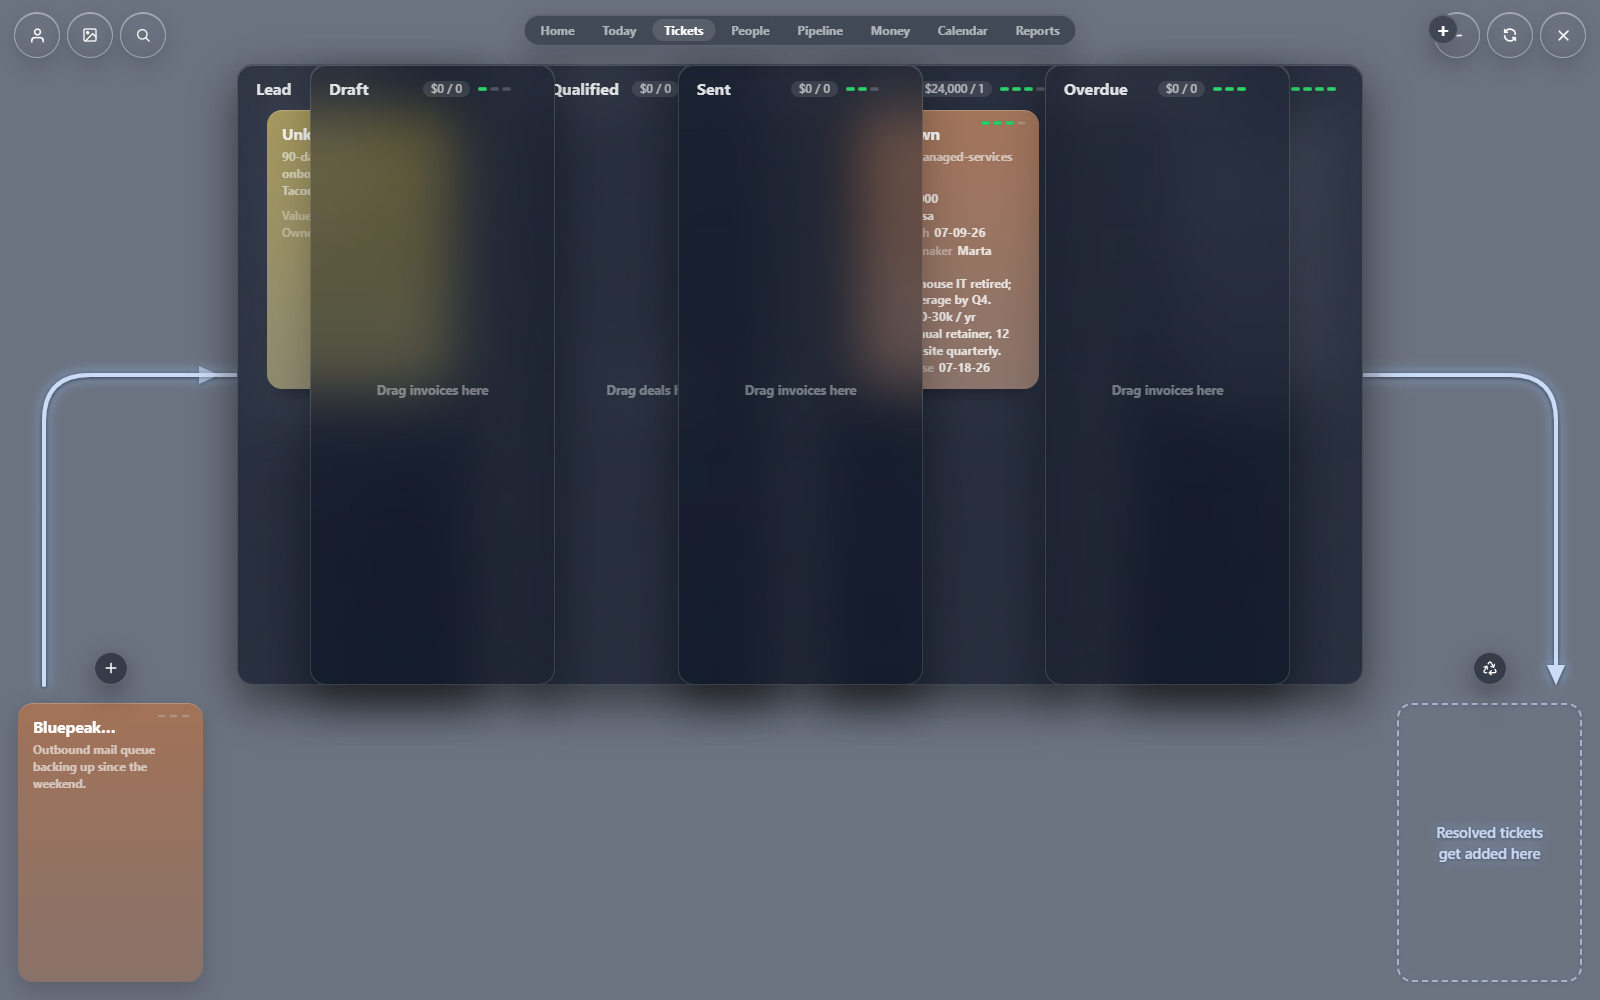
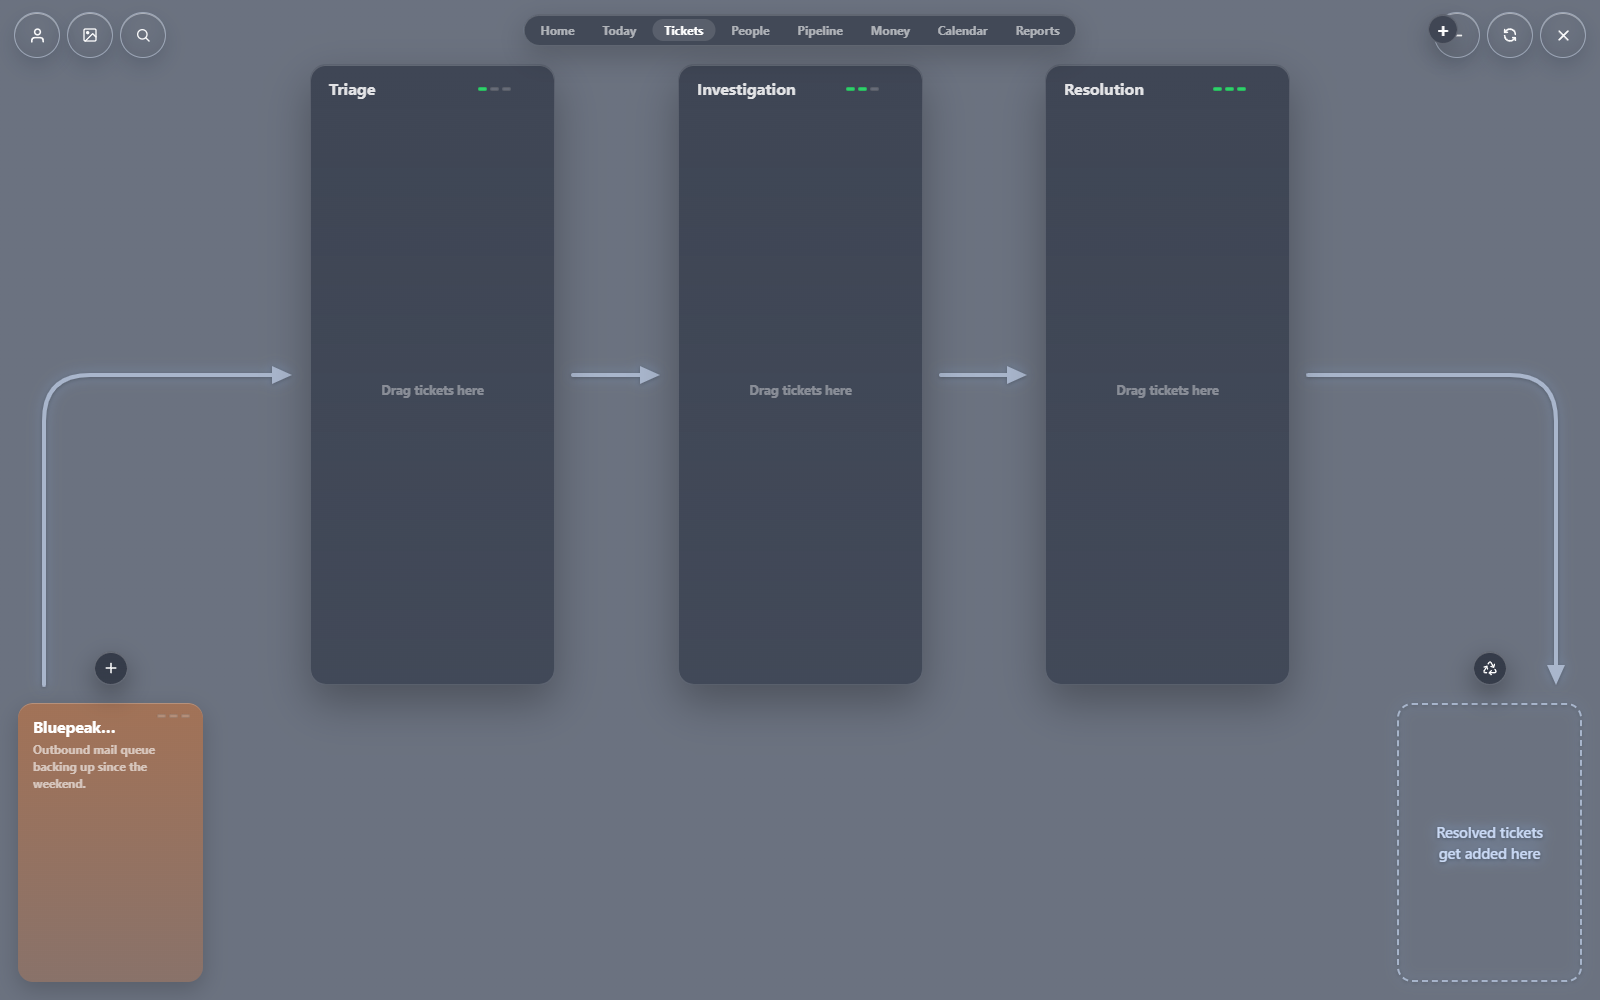
R1: theater isolation — one owned root per module, one visible theater per surface
Every card-system instance now mounts ALL of its chrome (stacks, scrim, zones,
flow arrows, menus, drag flyers) inside a single <section data-crm-theater>
root. The old per-element hidden toggles silently failed on .tk-zones — its
author-level display:contents overrode the UA [hidden] rule — which is exactly
how the ticket buckets bled through every other surface.

Fractal-camera surfaces (home, calendar, company dive) carry the same
data-crm-theater attribute. crmWorkspaces.setActive now closes the summoned
overlays (search deck, company dive), enforces the one-theater invariant over
every [data-crm-theater] root, and broadcasts crm:theater-switch, which the
portaled card-detail panels listen to and close on.

Acceptance: forward AND reverse workspace cycles shot through the harness —
each surface shows only its own theater (shots/ + shots/r*).

diff --git a/dashboard/app/static/card-system.js b/dashboard/app/static/card-system.js
@@ -72,6 +72,7 @@ global.createCrmCardSystem = function createCrmCardSystem(config = {}) {
     ...(config.storageKeys || {}),
   };
   const instanceGlobal = apiName ? String(apiName) : "";
+  const theaterKey = String(config.theater || apiName);
   let active = config.active !== false;
   let started = false;
   let publicApi = null;
@@ -215,7 +216,7 @@ global.createCrmCardSystem = function createCrmCardSystem(config = {}) {
                               // create fields (client/date/description) are saved; cancelling discards it
   let pendingRender = false;  // a render arrived while the detail config was open → run it once it closes
 
-  let root = null, stackScrim = null;
+  let root = null, stackScrim = null, theater = null;
   const decks = { left: null, right: null, trash: null };   // each: { box, arrow, bar, thumb, cards:[], scrollX, contentW, viewW }
   const fanned = { left: false, right: false, trash: false };
   const CONTROL_SIDES = ["left", ...(rightDeckEnabled || trashEnabled ? ["right"] : [])];
@@ -224,8 +225,24 @@ global.createCrmCardSystem = function createCrmCardSystem(config = {}) {
   let tickets = [], subscribed = false;
   let linkHighlightEl = null;
 
+  // ONE owned root per instance. Everything this factory creates — stacks,
+  // scrim, zones, flow arrows, menus, drag flyers — lives inside it, so hiding
+  // the theater hides the whole module in one move. (The old per-element
+  // `hidden` toggles silently failed on .tk-zones: its author-level
+  // `display: contents` overrode the UA [hidden] rule, which is exactly how
+  // the Triage/Investigation/Resolution buckets bled through every surface.)
+  const ensureTheater = () => {
+    if (theater) return theater;
+    ensureStyles();
+    theater = document.createElement("section");
+    theater.className = "crm-theater";
+    theater.dataset.crmTheater = theaterKey;
+    theater.hidden = !active;
+    document.body.appendChild(theater);
+    return theater;
+  };
   const applyActiveVisibility = () => {
-    [root, zonesRoot, stackScrim].forEach((el) => { if (el) el.hidden = !active; });
+    if (theater) theater.hidden = !active;
   };
 
   const esc = (s) => String(s ?? "").replace(/[&<>"]/g, (c) => ({ "&": "&amp;", "<": "&lt;", ">": "&gt;", '"': "&quot;" }[c]));
@@ -466,6 +483,12 @@ global.createCrmCardSystem = function createCrmCardSystem(config = {}) {
     style.textContent = `
       /* Text in the ticket UI is never selectable — dragging/clicking must not highlight or capture text.
          (The only place selection is allowed is the config menu's editable fields — see ticket-detail.js.) */
+      /* The theater: one owned root per card-system instance. display:contents so it adds NO box
+         or stacking context (its fixed-position children keep behaving exactly as before) — and the
+         [hidden] rule is author-level + !important so it actually wins over display:contents (the UA
+         [hidden] rule does not, which is how zones used to bleed through hidden). */
+      .crm-theater { display: contents; }
+      .crm-theater[hidden] { display: none !important; }
       .tk-stacks, .tk-zones { -webkit-user-select: none; user-select: none; }
       .tk-stacks { position: fixed; inset: auto 0 0 0; z-index: 4000; pointer-events: none; -webkit-app-region: no-drag; }
       /* Depth-of-field: a full-screen blur layer BETWEEN the focused stack (z 3) and everything else
@@ -821,7 +844,7 @@ global.createCrmCardSystem = function createCrmCardSystem(config = {}) {
         : trashEnabled
           ? `<button class="tk-menu-item" data-act="trash">move to trash</button>`
           : "");
-    document.body.appendChild(m);
+    ensureTheater().appendChild(m);
     m.style.left = `${Math.round(Math.min(x, window.innerWidth - m.offsetWidth - 8))}px`;
     m.style.top = `${Math.round(Math.min(y, window.innerHeight - m.offsetHeight - 8))}px`;
     ticketMenu = m;
@@ -857,7 +880,7 @@ global.createCrmCardSystem = function createCrmCardSystem(config = {}) {
       `<div class="tk-swatches">${TICKET_COLORS.map((c) =>
         `<button class="tk-swatch${c === cur ? " is-active" : ""}" data-color="${c}" style="background:${c}" aria-label="${c}"></button>`).join("")}</div>` +
       `<button class="tk-menu-item tk-menu-check" data-act="match"><span class="tk-tick">${cur ? "" : "&#10003;"}</span><span>match severity</span></button>`;
-    document.body.appendChild(m);
+    ensureTheater().appendChild(m);
     m.style.left = `${Math.round(Math.min(x, window.innerWidth - m.offsetWidth - 8))}px`;
     m.style.top = `${Math.round(Math.min(y, window.innerHeight - m.offsetHeight - 8))}px`;
     ticketMenu = m;   // reuse the main menu's dismiss wiring (outside press / Escape / wheel)
@@ -887,7 +910,7 @@ global.createCrmCardSystem = function createCrmCardSystem(config = {}) {
       (entries.length
         ? entries.map((e) => `<div class="tk-act-row"><span class="tk-act-when">${esc(when(e.at))}</span><span class="tk-act-text">${esc(e.text)}${e.by ? ` <span class="tk-act-by">— ${esc(e.by)}</span>` : ""}</span></div>`).join("")
         : `<div class="tk-act-row tk-act-none">No activity yet</div>`);
-    document.body.appendChild(m);
+    ensureTheater().appendChild(m);
     m.style.left = `${Math.round(Math.min(x, window.innerWidth - m.offsetWidth - 8))}px`;
     m.style.top = `${Math.round(Math.min(y, window.innerHeight - m.offsetHeight - 8))}px`;
     ticketMenu = m;   // same dismiss wiring: outside press / Escape (wheel INSIDE it scrolls the list)
@@ -921,7 +944,7 @@ global.createCrmCardSystem = function createCrmCardSystem(config = {}) {
     clone.style.backgroundImage = cardBg(t);
     applyStaleness(clone, t);
     clone.innerHTML = cardInner(t);
-    document.body.appendChild(clone);
+    ensureTheater().appendChild(clone);
     fitCardFields(clone);
     requestAnimationFrame(() => { clone.style.transform = "scale(0.12)"; clone.style.opacity = "0"; });
     setTimeout(() => { clone.remove(); doPurge(); }, 320);
@@ -940,7 +963,7 @@ global.createCrmCardSystem = function createCrmCardSystem(config = {}) {
     clone.style.backgroundImage = cardBg(t);
     applyStaleness(clone, t);
     clone.innerHTML = cardInner(t);
-    document.body.appendChild(clone);
+    ensureTheater().appendChild(clone);
     fitCardFields(clone);
     requestAnimationFrame(() => { clone.style.transform = `translate(${Math.round(to.left - fromRect.left)}px, ${Math.round(to.top - fromRect.top)}px) scale(${(to.width / fromRect.width).toFixed(4)}, ${(to.height / fromRect.height).toFixed(4)})`; });
     setTimeout(() => { clone.remove(); if (destEl.isConnected) destEl.style.opacity = ""; if (onLanded) onLanded(); }, 470);
@@ -1049,11 +1072,12 @@ global.createCrmCardSystem = function createCrmCardSystem(config = {}) {
   const ensureRoot = () => {
     if (root) return;
     ensureStyles();
+    ensureTheater();
     root = document.createElement("div");
     root.className = "tk-stacks";
-    // Depth-of-field scrim — a BODY-level layer (z 3900), NOT a child of .tk-stacks, so it sits below
+    // Depth-of-field scrim — a theater-level layer (z 3900), NOT a child of .tk-stacks, so it sits below
     // the stacks (which stay sharp) yet above the resting buckets/dashboard (which it blurs).
-    stackScrim = document.createElement("div"); stackScrim.className = "tk-scrim"; document.body.appendChild(stackScrim);
+    stackScrim = document.createElement("div"); stackScrim.className = "tk-scrim"; theater.appendChild(stackScrim);
     for (const side of CONTROL_SIDES) {
       const box = document.createElement("div");
       box.className = `tk-deck tk-deck-${side}`;
@@ -1117,7 +1141,7 @@ global.createCrmCardSystem = function createCrmCardSystem(config = {}) {
       root.appendChild(box); root.appendChild(empty);
       decks.trash = { box, track, arrow, bar, thumb, action: null, emptyPh: empty, cards: [], scrollX: 0, contentW: 0, viewW: 0, order: loadOrder("trash") };
     }
-    document.body.appendChild(root);
+    theater.appendChild(root);
     window.addEventListener("resize", () => { matchCardSize(); sizeRoot(); syncDropFloor(); DECK_SIDES.forEach(layout); });
     // Watch native widget drags from the outside so a grid ticket can be dropped back
     // into its stack. Capture phase → these run before the native drag's own document
@@ -1643,7 +1667,7 @@ global.createCrmCardSystem = function createCrmCardSystem(config = {}) {
     const clone = card.cloneNode(true);
     clone.className = "tk-card tk-flying";
     clone.style.cssText = `position:fixed; left:${cr.left}px; top:${cr.top}px; width:${cr.width}px; height:${cr.height}px; margin:0; z-index:9999;`;
-    document.body.appendChild(clone);
+    ensureTheater().appendChild(clone);
     const placed = addTicketToGrid(t, cell);
     render();   // the ticket now has a grid widget → it leaves its stack
     requestAnimationFrame(() => {
@@ -1765,7 +1789,7 @@ global.createCrmCardSystem = function createCrmCardSystem(config = {}) {
     clone.style.backgroundImage = cardBg(t);
     applyStaleness(clone, t);
     clone.innerHTML = cardInner(t);
-    document.body.appendChild(clone);
+    ensureTheater().appendChild(clone);
     fitCardFields(clone);
     if (!target) { requestAnimationFrame(() => { clone.style.opacity = "0"; }); setTimeout(() => clone.remove(), 420); return; }
     // Measure the card's resting slot with its transition suppressed, then hide it
@@ -2344,7 +2368,7 @@ global.createCrmCardSystem = function createCrmCardSystem(config = {}) {
       const wrap = document.createElement("div");
       wrap.innerHTML = `<svg class="tk-flow" xmlns="http://www.w3.org/2000/svg"><path class="tk-flow-shaft"></path><path class="tk-flow-head"></path></svg>`;
       const svg = wrap.firstElementChild;
-      document.body.appendChild(svg);
+      ensureTheater().appendChild(svg);
       flowSvgs.push(svg);
       flowShafts.push(svg.querySelector(".tk-flow-shaft"));
       flowHeads.push(svg.querySelector(".tk-flow-head"));
@@ -2483,7 +2507,7 @@ global.createCrmCardSystem = function createCrmCardSystem(config = {}) {
       if (window.ResizeObserver) new ResizeObserver(() => clampZoneScroll(s.key)).observe(zoneBody[s.key]);
       wireZoneThumb(s.key);
     });
-    document.body.appendChild(zonesRoot);
+    ensureTheater().appendChild(zonesRoot);
     layoutZones();
     requestAnimationFrame(layoutZones);              // re-measure once the grid has laid out
     window.addEventListener("resize", layoutZones);
@@ -2706,7 +2730,7 @@ global.createCrmCardSystem = function createCrmCardSystem(config = {}) {
         clone.style.backgroundImage = cardBg(t);
         applyStaleness(clone, t);
         clone.innerHTML = zoneCardInner(t);
-        document.body.appendChild(clone);
+        ensureTheater().appendChild(clone);
         fitCardFields(clone);
         card.classList.add("tk-zdrag");
         dragPreviewFn = preview;                 // re-run while autoscrolling so the gap follows the cursor
@@ -2916,7 +2940,7 @@ global.createCrmCardSystem = function createCrmCardSystem(config = {}) {
     clone.style.backgroundImage = cardBg(t);
     applyStaleness(clone, t);
     clone.innerHTML = zoneCardInner(t);
-    document.body.appendChild(clone);
+    ensureTheater().appendChild(clone);
     fitCardFields(clone);
     dest.style.opacity = "0";
     requestAnimationFrame(() => {
@@ -3074,7 +3098,7 @@ global.createCrmCardSystem = function createCrmCardSystem(config = {}) {
       clone.style.backgroundImage = cardBg(t);
       applyStaleness(clone, t);
       clone.innerHTML = cardInner(t);
-      document.body.appendChild(clone);
+      ensureTheater().appendChild(clone);
       fitCardFields(clone);
       requestAnimationFrame(() => {
         clone.style.transform = `translate(${Math.round(to.left - from.left)}px, ${Math.round(to.top - from.top)}px) scale(${(to.width / from.width).toFixed(4)}, ${(to.height / from.height).toFixed(4)})`;

diff --git a/dashboard/app/static/crm-workspaces.js b/dashboard/app/static/crm-workspaces.js
@@ -34,13 +34,41 @@
     document.head.appendChild(style);
   };
 
+  // Which theaters may be visible on each surface. The Today hand rides along on
+  // the Calendar surface (cards are dragged onto days); everything else is
+  // strictly one theater per surface. Summoned overlays (search deck, company
+  // dive) are never allowed to survive a switch — they must re-open on demand.
+  const ALLOWED_THEATERS = {
+    home: ["home"],
+    today: ["today"],
+    tickets: ["tickets"],
+    people: ["people"],
+    pipeline: ["pipeline"],
+    money: ["money"],
+    calendar: ["calendar", "today"],
+    reports: ["reports"],
+  };
+
   const setActive = (key) => {
     active = MODULES.some((m) => m.key === key) ? key : "home";
     localStorage.setItem(STORE_KEY, active);
+    // Close the summoned overlays FIRST — they own portaled panels that must
+    // cancel before the destination theater takes the stage.
+    try { window.crmSearchDeck?.close?.(); } catch {}
+    try { window.crmCompanyDive?.setActive?.(false); } catch {}
     MODULES.forEach((module) => {
       const on = module.key === active || (module.key === "today" && active === "calendar");
       try { module.api()?.setActive?.(on); } catch {}
     });
+    // Enforce the one-theater invariant: whatever the modules' own setActive
+    // logic did (or forgot), exactly the allowed theater roots are visible.
+    const allowed = new Set(ALLOWED_THEATERS[active] || [active]);
+    document.querySelectorAll("[data-crm-theater]").forEach((el) => {
+      el.hidden = !allowed.has(el.dataset.crmTheater);
+    });
+    // Portaled chrome (card-detail panels, drag flyers) listens for this and
+    // closes/cancels — a theater switch never carries another module's UI along.
+    document.dispatchEvent(new CustomEvent("crm:theater-switch", { detail: { key: active } }));
     root?.querySelectorAll("button[data-crm-module]").forEach((button) => {
       button.classList.toggle("is-active", button.dataset.crmModule === active);
       button.setAttribute("aria-pressed", button.dataset.crmModule === active ? "true" : "false");

diff --git a/dashboard/app/static/card-detail.js b/dashboard/app/static/card-detail.js
@@ -767,6 +767,9 @@ global.createCrmCardDetail = function createCrmCardDetail(config = {}) {
   };
 
   const publicApi = { open, close, isOpen: () => !!(overlay && !overlay.hidden) };
+  // The detail panel portals to <body>, outside any theater root — so it must
+  // close itself whenever the workspace switches theaters.
+  document.addEventListener("crm:theater-switch", () => { if (publicApi.isOpen()) close(); });
   if (apiName) global[apiName] = publicApi;
   return publicApi;
 };

diff --git a/dashboard/app/static/crm-company-dive.js b/dashboard/app/static/crm-company-dive.js
@@ -499,6 +499,7 @@
 
   camera = window.createFractalCamera({
     apiName: "crmCompanyCamera",
+    theater: "company-dive",
     surfaceClass: "crm-company-surface",
     layerClass: "crm-company-level",
     warmClass: "crm-company-warm",

diff --git a/dashboard/app/static/crm-home.js b/dashboard/app/static/crm-home.js
@@ -288,6 +288,7 @@
 
   camera = window.createFractalCamera({
     apiName: "crmHomeCamera",
+    theater: "home",
     surfaceClass: "crm-home-surface",
     layerClass: "crm-home-level",
     warmClass: "crm-home-warm",

diff --git a/dashboard/app/static/crm-record-search.js b/dashboard/app/static/crm-record-search.js
@@ -305,6 +305,7 @@
 
   cardApi = window.createCrmCardSystem({
     apiName: "crmSearchDeckCards",
+    theater: "search",
     source: searchSource,
     detail: searchDetail,
     widgetType: "search-result",

diff --git a/dashboard/app/static/crm-today.js b/dashboard/app/static/crm-today.js
@@ -228,6 +228,7 @@
 
   window.createCrmCardSystem({
     apiName: "crmToday",
+    theater: "today",
     source: todaySource,
     detail: todayDetail,
     widgetType: "today",

diff --git a/dashboard/app/static/fractal-calendar.js b/dashboard/app/static/fractal-calendar.js
@@ -393,6 +393,7 @@
 
   camera = window.createFractalCamera({
     apiName: "fractalCalendarCamera",
+    theater: "calendar",
     surfaceClass: "fc-surface",
     layerClass: "fc-level",
     warmClass: "fc-warm",

diff --git a/dashboard/app/static/fractal-camera.js b/dashboard/app/static/fractal-camera.js
@@ -78,6 +78,7 @@
       surface = document.createElement("div");
       surface.className = surfaceClass;
       surface.dataset.level = "0";
+      if (config.theater) surface.dataset.crmTheater = String(config.theater);
       surface.hidden = !active;
       layers[0] = config.buildRoot?.(ctx()) || document.createElement("div");
       layers[0].classList.add(layerClass);

diff --git a/dashboard/app/static/money.js b/dashboard/app/static/money.js
@@ -134,6 +134,7 @@
 
   window.createCrmCardSystem({
     apiName: "moneyPipeline",
+    theater: "money",
     source: invoiceSource,
     detail: window.invoiceDetail,
     widgetType: "invoice",

diff --git a/dashboard/app/static/people.js b/dashboard/app/static/people.js
@@ -96,6 +96,7 @@
 
   window.createCrmCardSystem({
     apiName: "peopleCards",
+    theater: "people",
     source: contactSource,
     detail: window.contactDetail,
     widgetType: "contact",

diff --git a/dashboard/app/static/pipeline.js b/dashboard/app/static/pipeline.js
@@ -107,6 +107,7 @@
 
   window.createCrmCardSystem({
     apiName: "dealPipeline",
+    theater: "pipeline",
     source: dealSource,
     detail: window.dealDetail,
     widgetType: "deal",